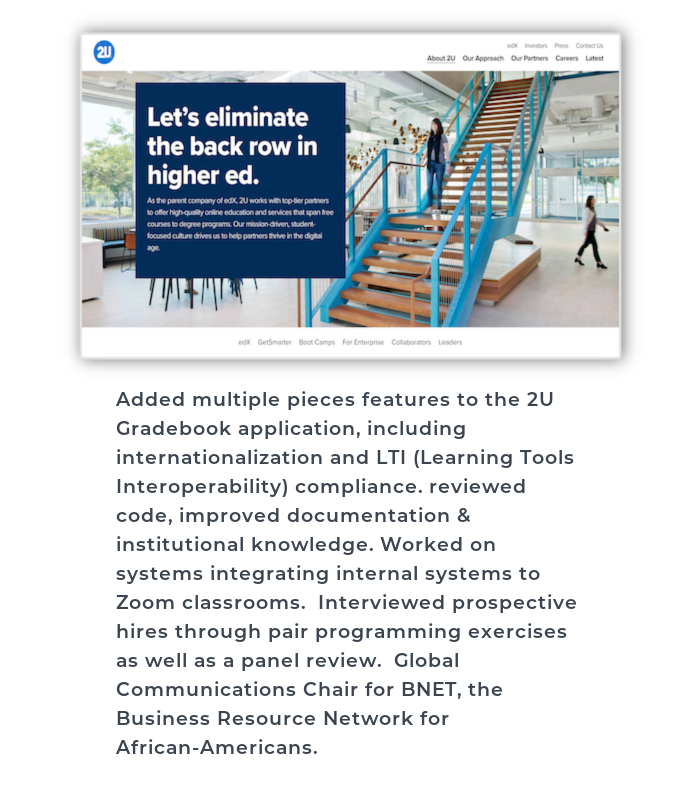
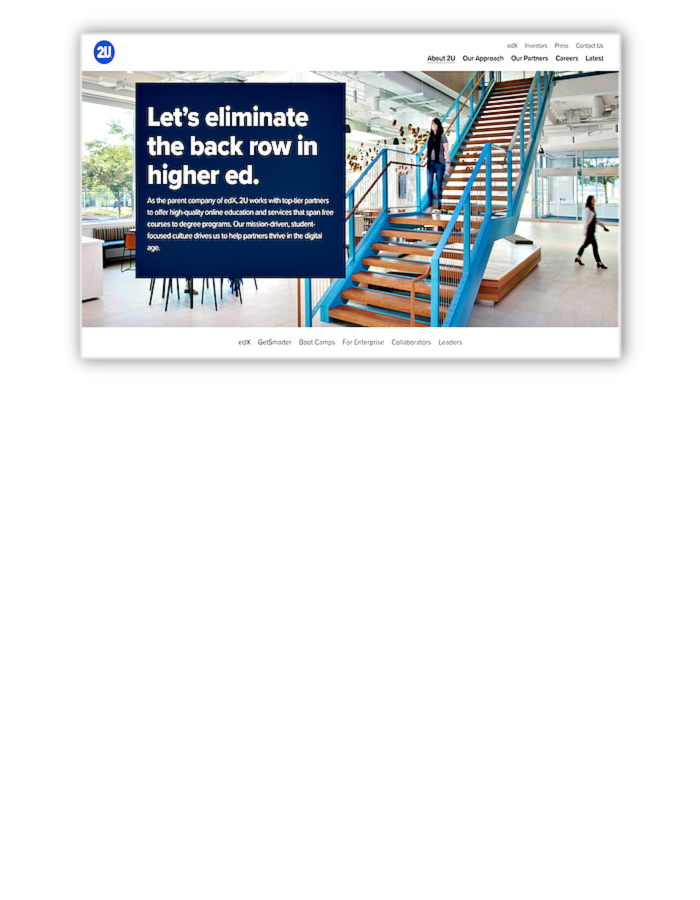
workC.html has carousel idea with 3 examples

Changed region(s): [[0.09, 0.0312, 0.9, 0.9375]]

diff --git a/workC.html b/workC.html
@@ -71,6 +71,12 @@
                 <p style="color:#155FF0;font-size:22px; font-family: Fira Sans;; text-align: center;">
                     EBWiki Co-Founder</p></a> 
                 <img class="work-image" src="websites/EBWiki_Caro.png">
+                <div class="work-description">Co-Founder and on the Board of Directors.  
+                    The site was created to provide victims, 
+                    their families and their communities the tools to 
+                    end the abuse and indiscriminant killing by 
+                    the police of African Americans and other people of color.
+                </div>     
             </div>
 
 
@@ -80,7 +86,13 @@
                 <a href="https://2u.com/" target="new">                    
                     <p style="color:#155FF0;font-size:22px; font-family: Fira Sans;; text-align: center;">
                         2U - Senior Software Engineer</p></a> 
-                    <img class="work-image" src="websites/2U_Caro.png">         
+                    <img class="work-image" src="websites/2U_Caro.png"> 
+                    <div class="work-description">Added multiple pieces features to the 2U Gradebook application, including 
+                        internationalization and LTI (Learning Tools Interoperability) compliance. reviewed code, 
+                        improved documentation & institutional knowledge. Worked on systems integrating internal systems to Zoom classrooms.
+                        Interviewed prospective hires through pair programming exercises as well as a panel review.
+                        Global Communications Chair for BNET, the Business Resource Network for African-Americans.
+                    </div>             
             </div>
 
 
@@ -89,7 +101,14 @@
                 <a href="https://www.thinkful.com/" target="new">                    
                     <p style="color:#155FF0;font-size:22px; font-family: Fira Sans;; text-align: center;">
                         Thinkful - Mentor</p></a> 
-                    <img class="work-image" src="websites/Thinkful_Caro.png">         
+                    <img class="work-image" src="websites/Thinkful_Caro.png">
+                        <div class="work-description">"I remember early on having trouble getting my portfolio published.  Mark
+                            helped me configure the dns settings and hosting on Go Daddy and 
+                            together got my first website live. I felt like that was a major 
+                            breakthrough and allowed me to share my progress with others. Also introduced
+                            me to MDN which has been an invaluable resource"
+                            <p style="font-size:16px; font-style: italic;">~Evan Bonertz</p>
+                        </div>         
             </div>
 
         <label for="carousel-3" class="carousel-control prev control-1">‹</label>

diff --git a/carousel.css b/carousel.css
@@ -10,8 +10,6 @@
   
 }
 
-
-
 .carousel-inner {
   position: relative;
   overflow: hidden;
@@ -106,7 +104,7 @@
   margin: 0;
   padding: 0;
   position: absolute;
-  bottom: 0%;
+  bottom: 20%;
   left: 0;
   right: 0;
   text-align: center;
@@ -135,6 +133,13 @@
   color: #428bca;
 }
 
+@media only screen and (max-width: 768px) {
+  .carousel-bullet {
+      visibility: hidden;
+      
+  }
+}
+
 #title {
   width: 100%;
   position: absolute;
@@ -159,34 +164,52 @@
 
 } */
 
-.worktext {
-  font-weight: 500;
-  color: black;
-  line-height: 30px;
-  padding-left: 6em;
-  padding-right: 6em;
-  --max-font: 16;
-  --min-font: 14;
-  font-family: var(--main-font);
-  font-size: var(--responsive);
-  text-align: center;
-
-}
-
 .heading {
   text-align: center;
 }
 
 .work-image {
   position: relative;
-  border-radius: 6px;
+  /* border-radius: 6px; */
   display: block;
   margin-left: auto;
   margin-right: auto;
   position: relative;
   display: block;
-  margin-left: auto;
-  margin-right: auto;
+
   
   }
   
+  .work-description {
+    position: absolute;
+    font-size: 18px;
+    line-height: 30px;
+    top: 55%;
+    left: 50%;
+    margin-left: 20px;
+    margin-right: 10px;
+    margin-top: 20px;
+    transform: translate(-50%, -50%);
+  }
+
+  @media only screen and (max-width: 900px) {
+    .work-description {
+      top: 55%;  
+      line-height: normal;    
+      font-size: 16px;
+      /* margin-top: 0px; */
+      width: 60%;
+        
+    }
+  }
+
+  @media only screen and (max-width: 768px) {
+    .work-description {
+      top: 65%;  
+      line-height: normal;    
+      font-size: 16px;
+      /* margin-top: 0px; */
+      width: 80%;
+        
+    }
+  }
